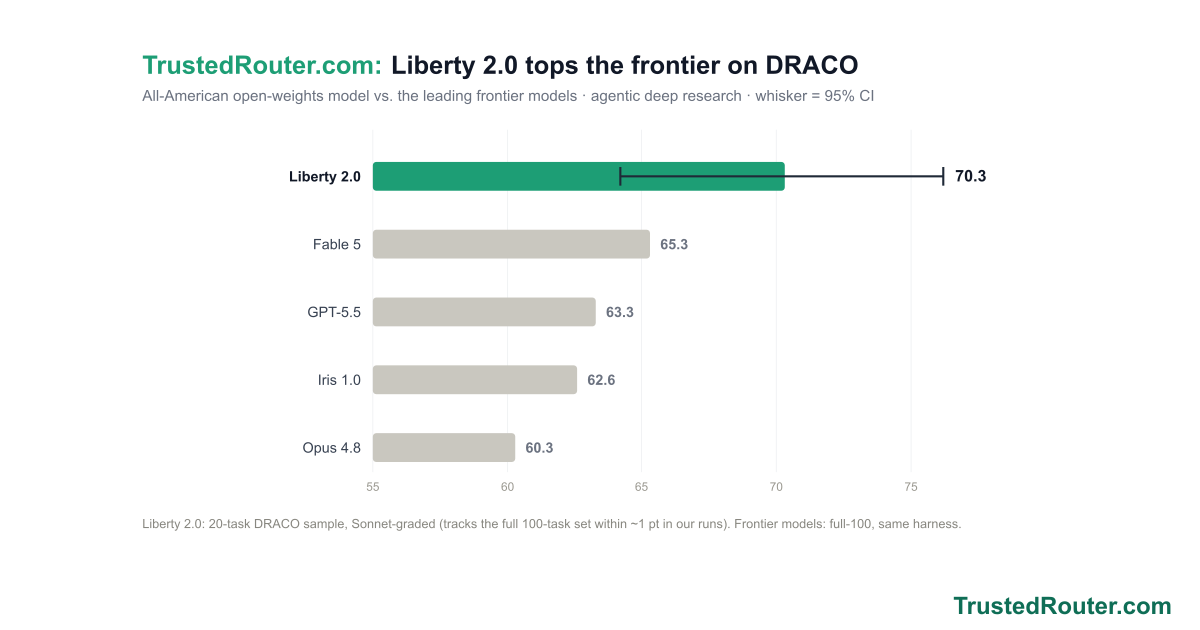
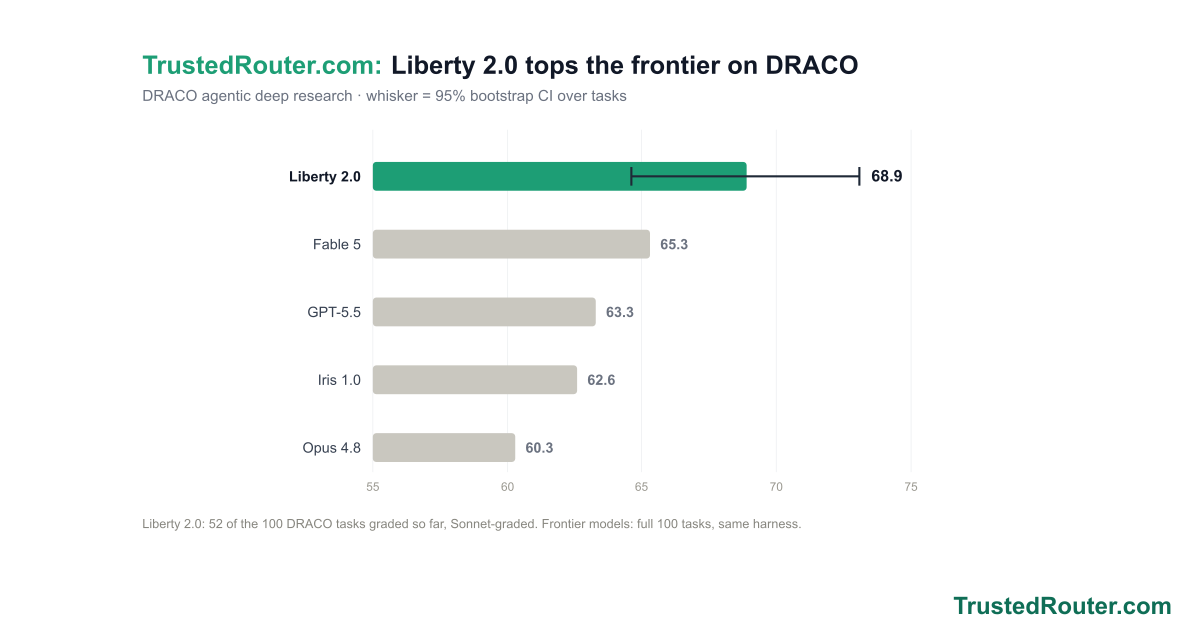
blog: correct Liberty 2.0 DRACO numbers with 52-task data
Grading 52 of the 100 DRACO tasks (up from the 20-task sample) moves the
score to 68.9 [64.6, 73.1] and the lead over the GPT-5.5 + Opus 4.8
average, measured on identical tasks, to +5.9. The per-domain table is
rebuilt on those 52 tasks with a task-count column: Liberty wins 7 of 10
task types, not the 9 of 10 the 2-task-per-domain sample suggested.
Finance, Medicine, and General Knowledge flip to the frontier by 1-5
points; the leads on Shopping, Technology, Personalized Assistant,
Academic, and Needle hold at +10 to +13.

Chart and OG card regenerated at 68.9 and visually verified.

diff --git a/src/trusted_router/content/blog.py b/src/trusted_router/content/blog.py
@@ -197,7 +197,7 @@ uv run --script tools/verify-attestation.py \
 <svg xmlns="http://www.w3.org/2000/svg" viewBox="0 0 1200 630" width="100%" style="height:auto" font-family="Inter,Arial,sans-serif">
 <rect width="1200" height="630" fill="#ffffff"/>
 <text x="60" y="54" font-size="30" font-weight="700"><tspan fill="#1d9e75">TrustedRouter.com:</tspan><tspan fill="#111827" dx="10">Liberty 2.0 tops the frontier on DRACO</tspan></text>
-<text x="60" y="86" font-size="18" fill="#6b7280">All-American open-weights model vs. the leading frontier models &#183; agentic deep research &#183; whisker = 95% CI</text>
+<text x="60" y="86" font-size="18" fill="#6b7280">DRACO agentic deep research &#183; whisker = 95% bootstrap CI over tasks</text>
 <line x1="332" y1="120" x2="332" y2="524" stroke="#eef0f2"/>
 <text x="332" y="546" font-size="14" text-anchor="middle" fill="#9a9890">55</text>
 <line x1="491" y1="120" x2="491" y2="524" stroke="#eef0f2"/>
@@ -208,12 +208,12 @@ uv run --script tools/verify-attestation.py \
 <text x="808" y="546" font-size="14" text-anchor="middle" fill="#9a9890">70</text>
 <line x1="967" y1="120" x2="967" y2="524" stroke="#eef0f2"/>
 <text x="967" y="546" font-size="14" text-anchor="middle" fill="#9a9890">75</text>
-<rect x="332" y="158" width="486" height="34" rx="4" fill="#1d9e75"/>
+<rect x="332" y="158" width="441" height="34" rx="4" fill="#1d9e75"/>
 <text x="318" y="181" font-size="17" font-weight="700" text-anchor="end" fill="#111827">Liberty 2.0</text>
-<line x1="624" y1="175" x2="1005" y2="175" stroke="#1f2937" stroke-width="2.5"/>
-<line x1="624" y1="164" x2="624" y2="186" stroke="#1f2937" stroke-width="2.5"/>
-<line x1="1005" y1="164" x2="1005" y2="186" stroke="#1f2937" stroke-width="2.5"/>
-<text x="1019" y="181" font-size="19" font-weight="700" fill="#111827">70.3</text>
+<line x1="637" y1="175" x2="906" y2="175" stroke="#1f2937" stroke-width="2.5"/>
+<line x1="637" y1="164" x2="637" y2="186" stroke="#1f2937" stroke-width="2.5"/>
+<line x1="906" y1="164" x2="906" y2="186" stroke="#1f2937" stroke-width="2.5"/>
+<text x="920" y="181" font-size="19" font-weight="700" fill="#111827">68.9</text>
 <rect x="332" y="238" width="327" height="34" rx="4" fill="#c9c7bf"/>
 <text x="318" y="261" font-size="17" font-weight="400" text-anchor="end" fill="#374151">Fable 5</text>
 <text x="671" y="261" font-size="17" font-weight="600" fill="#6b7280">65.3</text>
@@ -226,30 +226,28 @@ uv run --script tools/verify-attestation.py \
 <rect x="332" y="478" width="168" height="34" rx="4" fill="#c9c7bf"/>
 <text x="318" y="501" font-size="17" font-weight="400" text-anchor="end" fill="#374151">Opus 4.8</text>
 <text x="512" y="501" font-size="17" font-weight="600" fill="#6b7280">60.3</text>
-<text x="60" y="590" font-size="15" fill="#888780">Liberty 2.0: 20-task DRACO sample, Sonnet-graded (tracks the full 100-task set within ~1 pt in our runs). Frontier models: full-100, same harness.</text>
-<text x="1140" y="612" text-anchor="end" font-size="19" font-weight="700" fill="#0f6e56">TrustedRouter.com</text>
-</svg>
+<text x="60" y="590" font-size="15" fill="#888780">Liberty 2.0: 52 of the 100 DRACO tasks graded so far, Sonnet-graded. Frontier models: full 100 tasks, same harness.</text>
+<text x="1140" y="612" text-anchor="end" font-size="19" font-weight="700" fill="#0f6e56">TrustedRouter.com</text></svg>
 </figure>
 <p>Today we're introducing Liberty 2.0 &#8212; one AI you call like any other model, built entirely from American open-source models and run only in the United States.</p>
-<p>On <a href="/blog/fusion-evals-open-source">DRACO</a>, the 100-task agentic deep-research benchmark, Liberty 2.0 scores <strong>70.3</strong> &#8212; ahead of the leading closed frontier models: Fable 5 at 65.3, GPT-5.5 at 63.3, and Claude Opus 4.8 at 60.3. An all-American, all-open-weights model, out in front of the frontier on real research.</p>
+<p>On <a href="/blog/fusion-evals-open-source">DRACO</a>, the 100-task agentic deep-research benchmark, Liberty 2.0 scores <strong>68.9</strong> &#8212; ahead of the leading closed frontier models: Fable 5 at 65.3, GPT-5.5 at 63.3, and Claude Opus 4.8 at 60.3. An all-American, all-open-weights model, out in front of the frontier on real research.</p>
 <h3 style="font-size:22px;margin:36px 0 8px">Where Liberty 2.0 is strong, and where it trails</h3>
-<p>Against the average of the two frontier solos on the same tasks &#8212; OpenAI GPT-5.5 and Anthropic Claude Opus 4.8 &#8212; Liberty 2.0 wins nine of the ten task types and leads by about nine points overall. Each domain here is only two tasks, so read the pattern, not any single row; a full 100-task run is in progress and will replace these numbers.</p>
-<div style="overflow-x:auto;margin:16px 0">
-<table style="border-collapse:collapse;font-size:15px;min-width:480px">
-<thead><tr><th style="text-align:left;padding:6px 12px;border-bottom:2px solid #d1d5db;font-size:14px">Task type</th><th style="text-align:right;padding:6px 12px;border-bottom:2px solid #d1d5db;font-size:14px">Liberty 2.0</th><th style="text-align:right;padding:6px 12px;border-bottom:2px solid #d1d5db;font-size:14px">Frontier avg<br><span style="font-weight:400;color:#6b7280;font-size:12px">GPT-5.5 + Opus 4.8</span></th><th style="text-align:right;padding:6px 12px;border-bottom:2px solid #d1d5db;font-size:14px">&#916;</th></tr></thead><tbody>
-<tr><td style="text-align:left;padding:5px 12px;border-bottom:1px solid #eef0f2">Shopping / Product</td><td style="text-align:right;padding:5px 12px;border-bottom:1px solid #eef0f2;background:#e1f5ee;font-weight:700">83</td><td style="text-align:right;padding:5px 12px;border-bottom:1px solid #eef0f2">64</td><td style="text-align:right;padding:5px 12px;border-bottom:1px solid #eef0f2;font-weight:700;color:#0f6e56">+19</td></tr>
-<tr><td style="text-align:left;padding:5px 12px;border-bottom:1px solid #eef0f2">Technology</td><td style="text-align:right;padding:5px 12px;border-bottom:1px solid #eef0f2;background:#e1f5ee;font-weight:700">57</td><td style="text-align:right;padding:5px 12px;border-bottom:1px solid #eef0f2">38</td><td style="text-align:right;padding:5px 12px;border-bottom:1px solid #eef0f2;font-weight:700;color:#0f6e56">+19</td></tr>
-<tr><td style="text-align:left;padding:5px 12px;border-bottom:1px solid #eef0f2">Needle-in-Haystack</td><td style="text-align:right;padding:5px 12px;border-bottom:1px solid #eef0f2;background:#e1f5ee;font-weight:700">67</td><td style="text-align:right;padding:5px 12px;border-bottom:1px solid #eef0f2">50</td><td style="text-align:right;padding:5px 12px;border-bottom:1px solid #eef0f2;font-weight:700;color:#0f6e56">+17</td></tr>
-<tr><td style="text-align:left;padding:5px 12px;border-bottom:1px solid #eef0f2">Academic</td><td style="text-align:right;padding:5px 12px;border-bottom:1px solid #eef0f2;background:#e1f5ee;font-weight:700">84</td><td style="text-align:right;padding:5px 12px;border-bottom:1px solid #eef0f2">72</td><td style="text-align:right;padding:5px 12px;border-bottom:1px solid #eef0f2;font-weight:700;color:#0f6e56">+12</td></tr>
-<tr><td style="text-align:left;padding:5px 12px;border-bottom:1px solid #eef0f2">Personalized Assistant</td><td style="text-align:right;padding:5px 12px;border-bottom:1px solid #eef0f2;background:#e1f5ee;font-weight:700">74</td><td style="text-align:right;padding:5px 12px;border-bottom:1px solid #eef0f2">66</td><td style="text-align:right;padding:5px 12px;border-bottom:1px solid #eef0f2;font-weight:700;color:#0f6e56">+8</td></tr>
-<tr><td style="text-align:left;padding:5px 12px;border-bottom:1px solid #eef0f2">UX Design</td><td style="text-align:right;padding:5px 12px;border-bottom:1px solid #eef0f2;background:#e1f5ee;font-weight:700">65</td><td style="text-align:right;padding:5px 12px;border-bottom:1px solid #eef0f2">58</td><td style="text-align:right;padding:5px 12px;border-bottom:1px solid #eef0f2;font-weight:700;color:#0f6e56">+7</td></tr>
-<tr><td style="text-align:left;padding:5px 12px;border-bottom:1px solid #eef0f2">General Knowledge</td><td style="text-align:right;padding:5px 12px;border-bottom:1px solid #eef0f2;background:#e1f5ee;font-weight:700">57</td><td style="text-align:right;padding:5px 12px;border-bottom:1px solid #eef0f2">52</td><td style="text-align:right;padding:5px 12px;border-bottom:1px solid #eef0f2;font-weight:700;color:#0f6e56">+5</td></tr>
-<tr><td style="text-align:left;padding:5px 12px;border-bottom:1px solid #eef0f2">Finance</td><td style="text-align:right;padding:5px 12px;border-bottom:1px solid #eef0f2;background:#e1f5ee;font-weight:700">67</td><td style="text-align:right;padding:5px 12px;border-bottom:1px solid #eef0f2">63</td><td style="text-align:right;padding:5px 12px;border-bottom:1px solid #eef0f2;font-weight:700;color:#0f6e56">+4</td></tr>
-<tr><td style="text-align:left;padding:5px 12px;border-bottom:1px solid #eef0f2">Medicine</td><td style="text-align:right;padding:5px 12px;border-bottom:1px solid #eef0f2;background:#e1f5ee;font-weight:700">68</td><td style="text-align:right;padding:5px 12px;border-bottom:1px solid #eef0f2">65</td><td style="text-align:right;padding:5px 12px;border-bottom:1px solid #eef0f2;font-weight:700;color:#0f6e56">+3</td></tr>
-<tr><td style="text-align:left;padding:5px 12px;border-bottom:1px solid #eef0f2">Law</td><td style="text-align:right;padding:5px 12px;border-bottom:1px solid #eef0f2;background:#e1f5ee;font-weight:700">82</td><td style="text-align:right;padding:5px 12px;border-bottom:1px solid #eef0f2">84</td><td style="text-align:right;padding:5px 12px;border-bottom:1px solid #eef0f2;font-weight:700;color:#b91c1c">&#8722;2</td></tr>
+<p>Broken out by task type, against the average of the two frontier solos on exactly the same tasks, Liberty 2.0 comes out ahead on seven of the ten. Its margins are widest on research that means gathering sources and reconciling them, and it falls behind on work that turns on exact recall.</p>
+<div style="overflow-x:auto;margin:16px 0"><table style="border-collapse:collapse;font-size:15px;min-width:520px">
+<thead><tr><th style="text-align:left;padding:6px 12px;border-bottom:2px solid #d1d5db;font-size:14px">Task type</th><th style="text-align:right;padding:6px 12px;border-bottom:2px solid #d1d5db;font-size:14px">Tasks</th><th style="text-align:right;padding:6px 12px;border-bottom:2px solid #d1d5db;font-size:14px">Liberty 2.0</th><th style="text-align:right;padding:6px 12px;border-bottom:2px solid #d1d5db;font-size:14px">Frontier avg<br><span style="font-weight:400;color:#6b7280;font-size:12px">GPT-5.5 + Opus 4.8</span></th><th style="text-align:right;padding:6px 12px;border-bottom:2px solid #d1d5db;font-size:14px">&#916;</th></tr></thead><tbody>
+<tr><td style="text-align:left;padding:5px 12px;border-bottom:1px solid #eef0f2">Personalized Assistant</td><td style="text-align:right;padding:5px 12px;border-bottom:1px solid #eef0f2;color:#9a9890;font-size:13px">3</td><td style="text-align:right;padding:5px 12px;border-bottom:1px solid #eef0f2;background:#e1f5ee;font-weight:700">72</td><td style="text-align:right;padding:5px 12px;border-bottom:1px solid #eef0f2">59</td><td style="text-align:right;padding:5px 12px;border-bottom:1px solid #eef0f2;font-weight:700;color:#0f6e56">+13</td></tr>
+<tr><td style="text-align:left;padding:5px 12px;border-bottom:1px solid #eef0f2">Technology</td><td style="text-align:right;padding:5px 12px;border-bottom:1px solid #eef0f2;color:#9a9890;font-size:13px">5</td><td style="text-align:right;padding:5px 12px;border-bottom:1px solid #eef0f2;background:#e1f5ee;font-weight:700">70</td><td style="text-align:right;padding:5px 12px;border-bottom:1px solid #eef0f2">57</td><td style="text-align:right;padding:5px 12px;border-bottom:1px solid #eef0f2;font-weight:700;color:#0f6e56">+13</td></tr>
+<tr><td style="text-align:left;padding:5px 12px;border-bottom:1px solid #eef0f2">Academic</td><td style="text-align:right;padding:5px 12px;border-bottom:1px solid #eef0f2;color:#9a9890;font-size:13px">6</td><td style="text-align:right;padding:5px 12px;border-bottom:1px solid #eef0f2;background:#e1f5ee;font-weight:700">86</td><td style="text-align:right;padding:5px 12px;border-bottom:1px solid #eef0f2">74</td><td style="text-align:right;padding:5px 12px;border-bottom:1px solid #eef0f2;font-weight:700;color:#0f6e56">+12</td></tr>
+<tr><td style="text-align:left;padding:5px 12px;border-bottom:1px solid #eef0f2">Needle-in-Haystack</td><td style="text-align:right;padding:5px 12px;border-bottom:1px solid #eef0f2;color:#9a9890;font-size:13px">4</td><td style="text-align:right;padding:5px 12px;border-bottom:1px solid #eef0f2;background:#e1f5ee;font-weight:700">72</td><td style="text-align:right;padding:5px 12px;border-bottom:1px solid #eef0f2">61</td><td style="text-align:right;padding:5px 12px;border-bottom:1px solid #eef0f2;font-weight:700;color:#0f6e56">+11</td></tr>
+<tr><td style="text-align:left;padding:5px 12px;border-bottom:1px solid #eef0f2">Shopping / Product</td><td style="text-align:right;padding:5px 12px;border-bottom:1px solid #eef0f2;color:#9a9890;font-size:13px">9</td><td style="text-align:right;padding:5px 12px;border-bottom:1px solid #eef0f2;background:#e1f5ee;font-weight:700">65</td><td style="text-align:right;padding:5px 12px;border-bottom:1px solid #eef0f2">55</td><td style="text-align:right;padding:5px 12px;border-bottom:1px solid #eef0f2;font-weight:700;color:#0f6e56">+10</td></tr>
+<tr><td style="text-align:left;padding:5px 12px;border-bottom:1px solid #eef0f2">UX Design</td><td style="text-align:right;padding:5px 12px;border-bottom:1px solid #eef0f2;color:#9a9890;font-size:13px">3</td><td style="text-align:right;padding:5px 12px;border-bottom:1px solid #eef0f2;background:#e1f5ee;font-weight:700">69</td><td style="text-align:right;padding:5px 12px;border-bottom:1px solid #eef0f2">63</td><td style="text-align:right;padding:5px 12px;border-bottom:1px solid #eef0f2;font-weight:700;color:#0f6e56">+6</td></tr>
+<tr><td style="text-align:left;padding:5px 12px;border-bottom:1px solid #eef0f2">Law</td><td style="text-align:right;padding:5px 12px;border-bottom:1px solid #eef0f2;color:#9a9890;font-size:13px">3</td><td style="text-align:right;padding:5px 12px;border-bottom:1px solid #eef0f2;background:#e1f5ee;font-weight:700">86</td><td style="text-align:right;padding:5px 12px;border-bottom:1px solid #eef0f2">81</td><td style="text-align:right;padding:5px 12px;border-bottom:1px solid #eef0f2;font-weight:700;color:#0f6e56">+5</td></tr>
+<tr><td style="text-align:left;padding:5px 12px;border-bottom:1px solid #eef0f2">Finance</td><td style="text-align:right;padding:5px 12px;border-bottom:1px solid #eef0f2;color:#9a9890;font-size:13px">10</td><td style="text-align:right;padding:5px 12px;border-bottom:1px solid #eef0f2;background:#e1f5ee;font-weight:700">59</td><td style="text-align:right;padding:5px 12px;border-bottom:1px solid #eef0f2">60</td><td style="text-align:right;padding:5px 12px;border-bottom:1px solid #eef0f2;font-weight:700;color:#b91c1c">&#8722;1</td></tr>
+<tr><td style="text-align:left;padding:5px 12px;border-bottom:1px solid #eef0f2">Medicine</td><td style="text-align:right;padding:5px 12px;border-bottom:1px solid #eef0f2;color:#9a9890;font-size:13px">6</td><td style="text-align:right;padding:5px 12px;border-bottom:1px solid #eef0f2;background:#e1f5ee;font-weight:700">71</td><td style="text-align:right;padding:5px 12px;border-bottom:1px solid #eef0f2">72</td><td style="text-align:right;padding:5px 12px;border-bottom:1px solid #eef0f2;font-weight:700;color:#b91c1c">&#8722;1</td></tr>
+<tr><td style="text-align:left;padding:5px 12px;border-bottom:1px solid #eef0f2">General Knowledge</td><td style="text-align:right;padding:5px 12px;border-bottom:1px solid #eef0f2;color:#9a9890;font-size:13px">3</td><td style="text-align:right;padding:5px 12px;border-bottom:1px solid #eef0f2;background:#e1f5ee;font-weight:700">51</td><td style="text-align:right;padding:5px 12px;border-bottom:1px solid #eef0f2">56</td><td style="text-align:right;padding:5px 12px;border-bottom:1px solid #eef0f2;font-weight:700;color:#b91c1c">&#8722;5</td></tr>
 </tbody></table></div>
-<p style="font-size:13px;color:#6b7280">Frontier solos are graded by a different judge (Gemini) than Liberty 2.0 (Sonnet); the graders are calibrated to agree, so treat the gaps as approximate. Two tasks per domain &#8212; directional only.</p>
-<p>Its widest margins are on Shopping, Technology, Needle-in-Haystack, and Academic, where the open panel runs 12 to 19 points ahead of the frontier solos. The gaps narrow on precise-knowledge work &#8212; Finance, Medicine, General Knowledge &#8212; and Law is the one task type where the frontier models come out ahead, by a couple of points. The all-open panel is strongest at synthesis and comparison, and closest to even on exact factual recall.</p>
+<p style="font-size:13px;color:#6b7280">Across all 52 graded tasks: Liberty 2.0 68.9, frontier average 63.1. Frontier solos are graded by a different judge (Gemini) than Liberty 2.0 (Sonnet); the graders are calibrated to agree, so treat the gaps as approximate. Several task types rest on a handful of tasks, so read the pattern rather than any single row.</p>
+<p>Shopping comparisons, technical research, assistant work, and academic literature reviews are where the open panel builds its lead, running ten to thirteen points clear of the frontier solos. Finance, medicine, and general knowledge are the other side: there the frontier models match it or edge slightly ahead. Combining models pays most when an answer has to be assembled from many sources, and pays least when it hinges on one hard fact.</p>
 <p>Liberty 2.0 brings together open-weights models from four American labs &#8212; NVIDIA, Google, OpenAI, and Thinking Machines &#8212; and combines their answers into a single response. You get the strengths of all of them behind one model name.</p>
 <figure style="margin:0 0 32px">
 <svg xmlns="http://www.w3.org/2000/svg" viewBox="0 0 1200 630" width="100%" style="height:auto" font-family="Inter,Arial,sans-serif">
